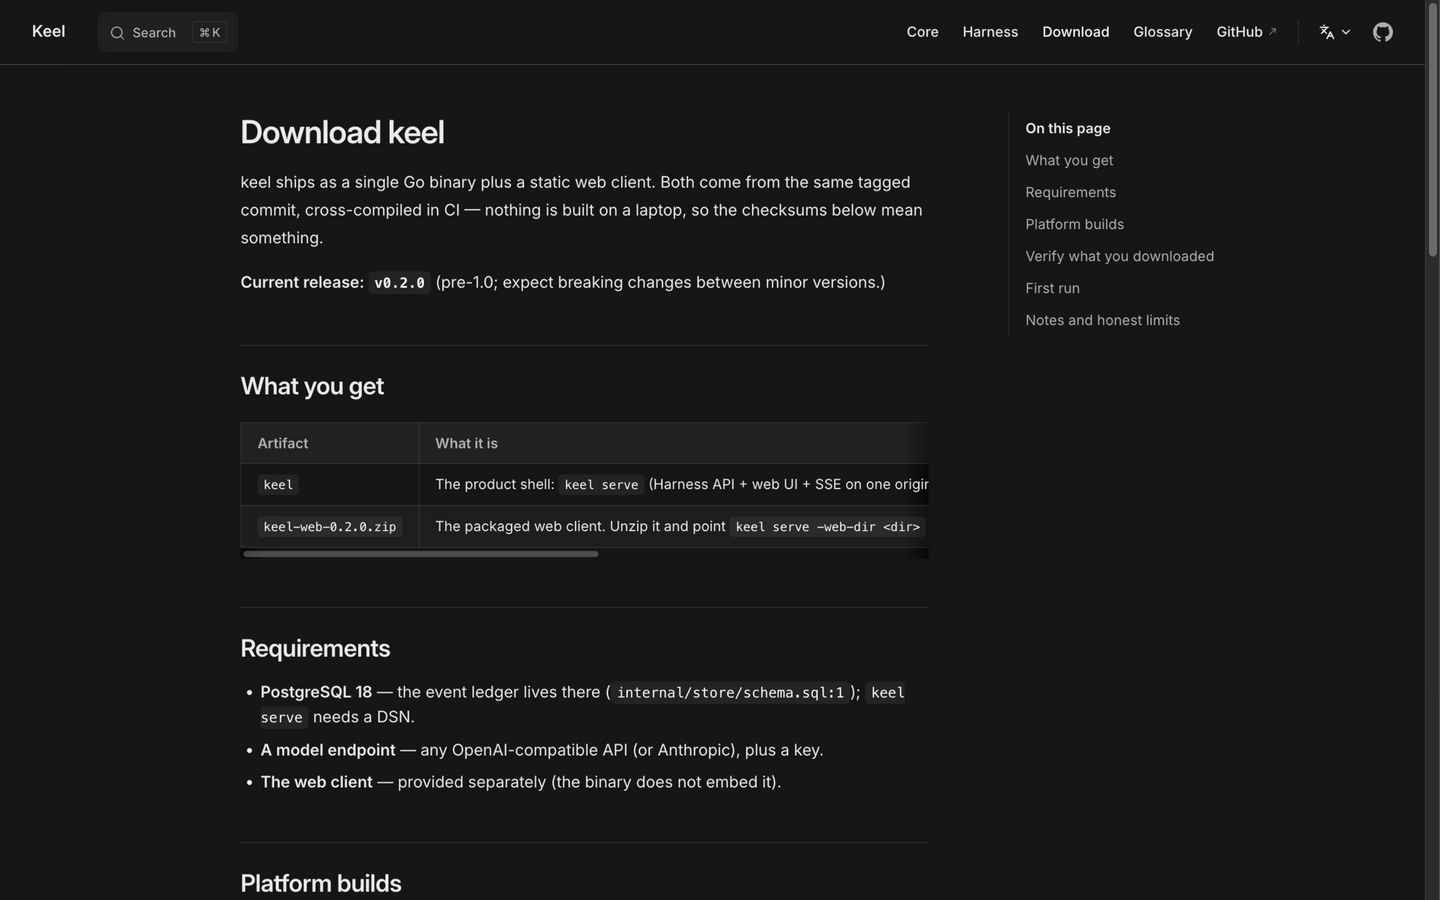
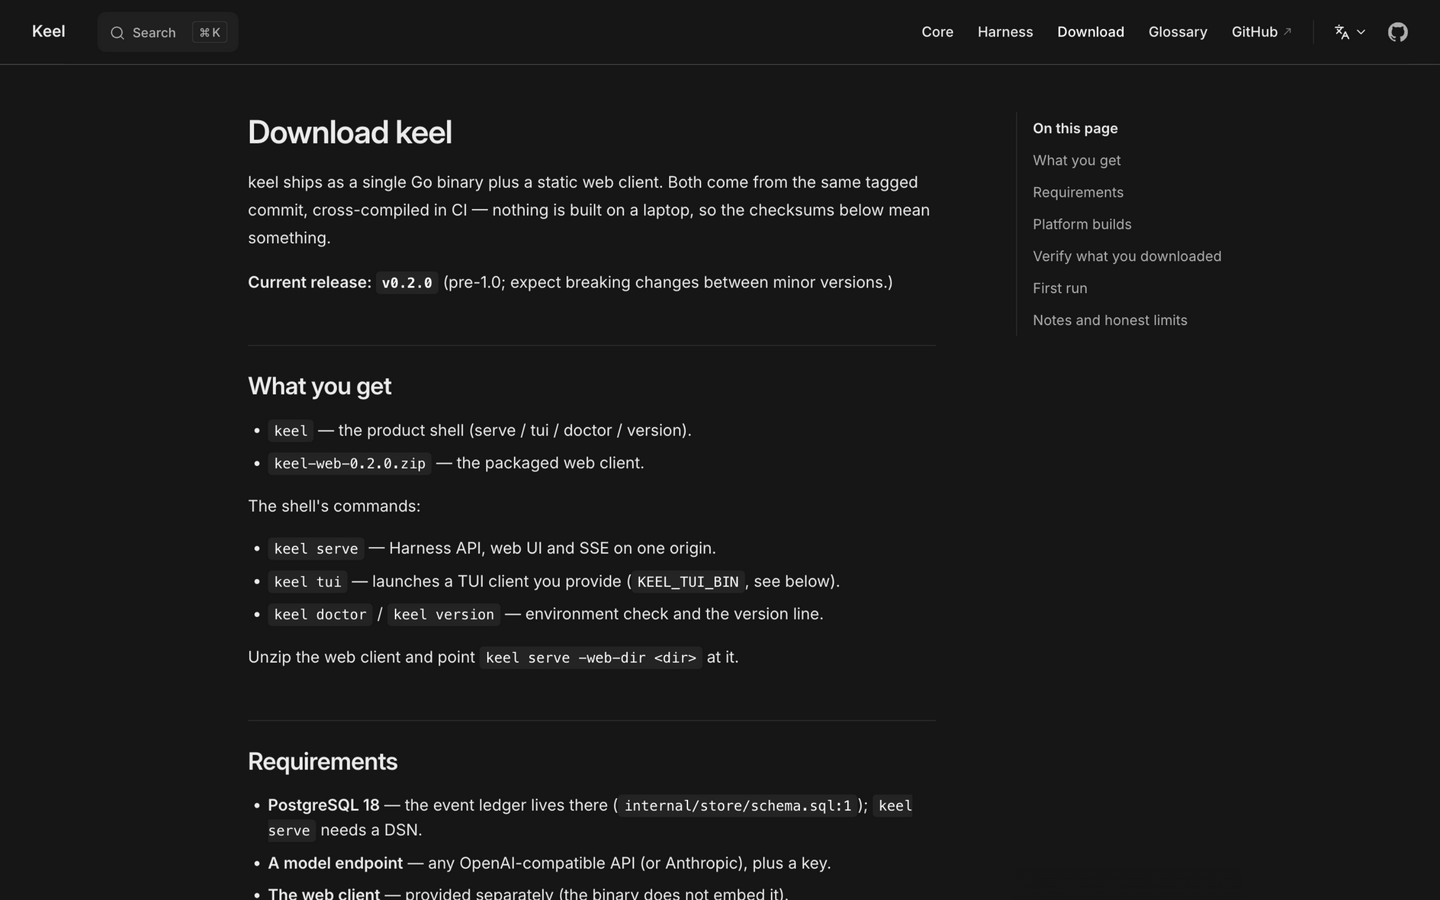
docs: commit the gate records and the refreshed site screenshots
The review's remaining blocker was record-vs-fact drift: the tasks edits
and the regenerated downloads/architecture screenshots were only in the
working tree, and the KEEL_TEST_DSN rerun note was missing. This commit
puts them on main: site 1.2/7.1/7.2 as verified, the three screenshots
(list-based downloads at 1440/390, architecture with the full sidebar),
and OAR 1.4 with the KEEL_TEST_DSN warning.

diff --git a/openspec/changes/keel-site-architecture-refresh/tasks.md b/openspec/changes/keel-site-architecture-refresh/tasks.md
@@ -6,7 +6,8 @@
 ## 1. 审计与基线
 
 - [x] 1.1 逐页审计 → `evidence/fact-sheet.md`（页面/优先级/问题/当前事实/建议；含 lane 划分）。
-- [ ] 1.2 基线：四道门与构建结果记录到 `evidence/baseline.txt`；关键页 before 截图。
+- [x] 1.2 基线：before = `git diff 5465b17..9ab8bf8 -- site`（纯文档内容变更，无组件/样式改动，
+      故不产 before 截图）；构建数字与 after 截图在 `evidence/`。
 
 ## 2. Lane A · Onboarding + Core 契约
 
@@ -48,9 +49,11 @@
 
 ## 7. 收口与验收
 
-- [x] 7.1 四道门全绿：`check-links`、`parity`、`check-citations`、`check-en-cjk`；
-      `pnpm --dir site build` 成功。
-- [ ] 7.2 部署：site.yml 成功；关键页公网 200 且为新内容；after 截图到 `evidence/after/`。
+- [x] 7.1 四道门全绿：`check-links`、`parity`、`check-citations`、`check-en-cjk`
+      （后者已接入 `site/scripts/build.mjs` 与 CI）；`pnpm --dir site build` 成功
+      （37 对 / 3314 链接 / 1471 引用 / 0 CJK）。
+- [x] 7.2 部署：site.yml 成功（run 45326674777；下载页表格修复后的 run 见 git 记录）；
+      关键页公网 200 且为新内容；after 截图已入库。
 - [ ] 7.3 vision 子代理复核关键页（架构总览/harness 总览/插件标准/下载页，四档/双端）；P0/P1 清零。
 - [ ] 7.4 归档本 change（docs-only；按 site 规格合入或 `--skip-specs`）。
 

diff --git a/openspec/changes/keel-oar-renderer/tasks.md b/openspec/changes/keel-oar-renderer/tasks.md
@@ -8,6 +8,7 @@
 - [x] 1.3 `cmd/keel/serve.go` 装配 journal dir（`-oar-journal-dir` > `KEEL_OAR_JOURNAL_DIR`），
       注册路由，accessgate 矩阵补声明。
 - [x] 1.4 测试：真 PG + 临时 journal 的契约测试（有记录/空/损坏/跨租户/非外部会话/未配置）。
+      复跑须带 `KEEL_TEST_DSN=...`；用 `DSN=` 会七个测试全 SKIP 但仍打印 `ok`（假绿陷阱）。
 
 ## 2. 客户端渲染（前端）
 
